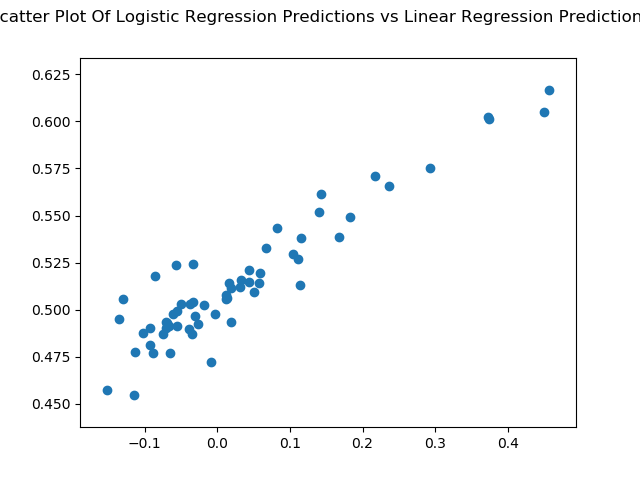
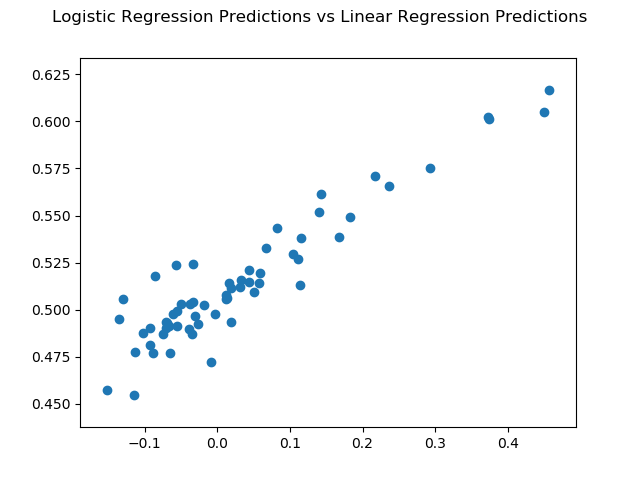
more

Changed region(s): [[0.0, 0.0, 1.0, 0.0625]]

diff --git a/script/learn_tst_rpt.py b/script/learn_tst_rpt.py
@@ -124,7 +124,7 @@ plt.savefig('../public/logr1.png')
 plt.close()
 
 fig = plt.figure()
-fig.suptitle('Scatter Plot Of Logistic Regression Predictions vs Linear Regression Predictions')
+fig.suptitle('Logistic Regression Predictions vs Linear Regression Predictions')
 plt.scatter(predictions_df.pred_linr, predictions_df.pred_logr)
 plt.savefig('../public/linlog.png')
 plt.close()
